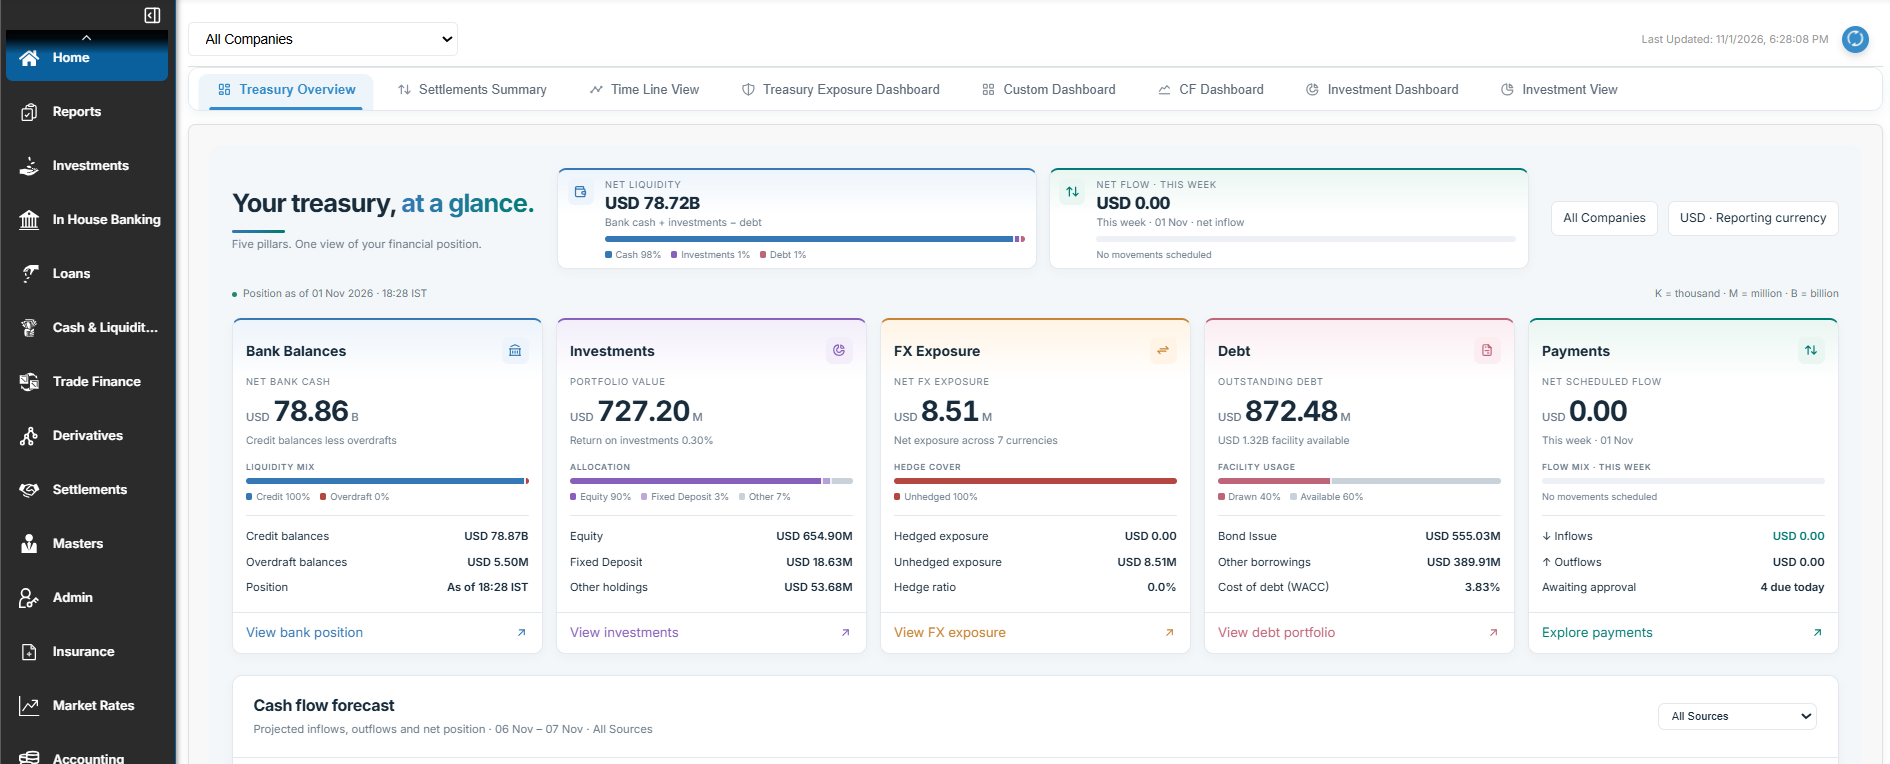
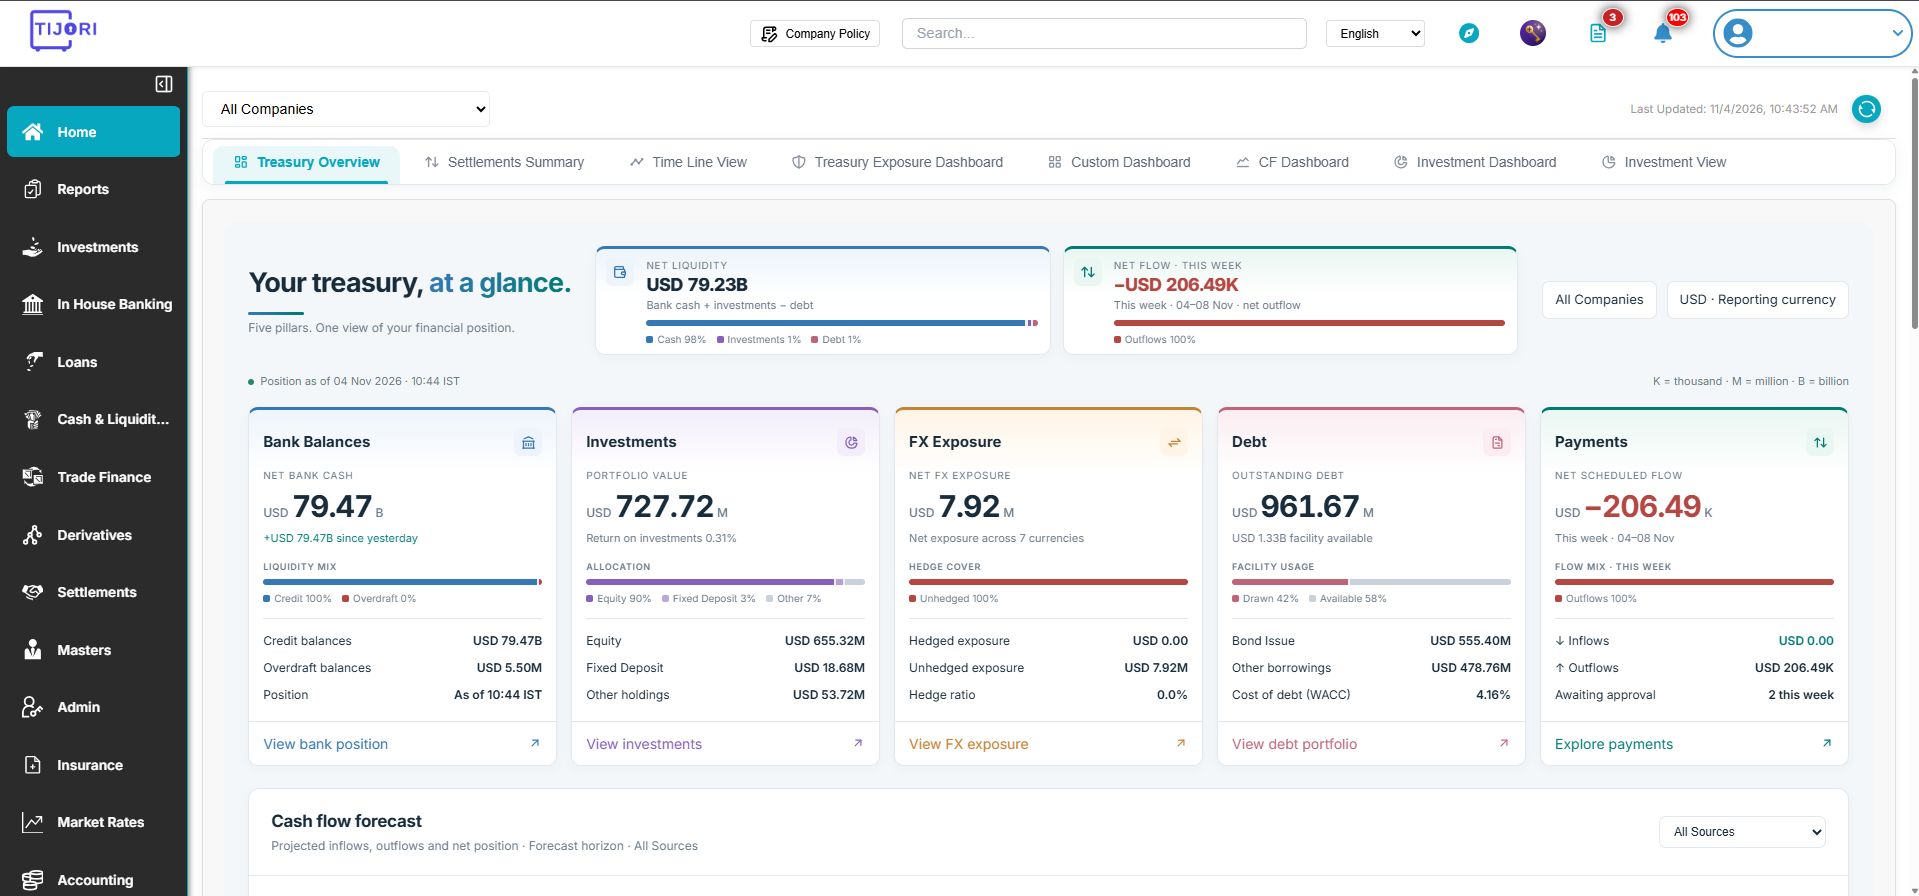
Update homepage screenshots and tighten hero spacing

diff --git a/src/components/home/PlatformOverview.tsx b/src/components/home/PlatformOverview.tsx
@@ -6,6 +6,12 @@ import Card from '../common/Card';
 import LocalizedLink from '../common/LocalizedLink';
 import { platformFeatures } from '../../data/features';
 
+const SLIDES = [
+  '/assets/screenshots/bank-balances-1.png',
+  '/assets/screenshots/bank-balances-2.png',
+  '/assets/screenshots/bank-balances-3.png',
+];
+
 export default function PlatformOverview() {
   const [visibleCards, setVisibleCards] = useState<Set<number>>(new Set());
   const [headerVisible, setHeaderVisible] = useState(false);
@@ -15,6 +21,16 @@ export default function PlatformOverview() {
   const { t: tCommon } = useTranslation('common');
   const { t: tPlatform } = useTranslation('platform');
   const isRTL = i18n.language === 'ar';
+  const [slide, setSlide] = useState(0);
+  const [paused, setPaused] = useState(false);
+  const goTo = (index: number) => setSlide((index + SLIDES.length) % SLIDES.length);
+
+  // Auto-advance the screenshot slider; pause while the visitor hovers it
+  useEffect(() => {
+    if (paused) return;
+    const timer = setTimeout(() => setSlide((s) => (s + 1) % SLIDES.length), 5000);
+    return () => clearTimeout(timer);
+  }, [slide, paused]);
 
   useEffect(() => {
     const observer = new IntersectionObserver(
@@ -147,17 +163,65 @@ export default function PlatformOverview() {
           ))}
         </div>
 
-        {/* Screenshot Preview */}
+        {/* Screenshot Preview — Bank Balances slider */}
         <div className="mt-16 text-center">
-          <div className="inline-block bg-gray-100 rounded-xl p-4 shadow-xl">
-            <img
-              src="/assets/screenshots/Bank Balances.png"
-              alt={t('platformOverview.screenshotCaption')}
-              className="rounded-lg w-full max-w-4xl"
-              loading="lazy"
-            />
+          <div
+            className="relative max-w-4xl mx-auto bg-gray-100 rounded-xl p-4 shadow-xl group/slider"
+            onMouseEnter={() => setPaused(true)}
+            onMouseLeave={() => setPaused(false)}
+          >
+            <div className="overflow-hidden rounded-lg" dir="ltr">
+              <div
+                className="flex transition-transform duration-700 ease-in-out"
+                style={{ transform: `translateX(-${slide * 100}%)` }}
+              >
+                {SLIDES.map((src, index) => (
+                  <img
+                    key={src}
+                    src={src}
+                    alt={`${t('platformOverview.screenshotCaption')} (${index + 1}/${SLIDES.length})`}
+                    className="w-full flex-shrink-0 block"
+                    loading="lazy"
+                  />
+                ))}
+              </div>
+            </div>
+
+            {/* Arrows */}
+            {[
+              { label: 'Previous', step: -1, side: 'left-6', path: 'M15 19l-7-7 7-7' },
+              { label: 'Next', step: 1, side: 'right-6', path: 'M9 5l7 7-7 7' },
+            ].map((arrow) => (
+              <button
+                key={arrow.label}
+                type="button"
+                aria-label={arrow.label}
+                onClick={() => goTo(slide + arrow.step)}
+                className={`absolute top-1/2 -translate-y-1/2 ${arrow.side} w-9 h-9 rounded-full bg-white/90 shadow-md text-gray-700 flex items-center justify-center opacity-0 group-hover/slider:opacity-100 focus:opacity-100 transition-opacity hover:bg-white`}
+              >
+                <svg className="w-5 h-5" fill="none" stroke="currentColor" viewBox="0 0 24 24">
+                  <path strokeLinecap="round" strokeLinejoin="round" strokeWidth={2} d={arrow.path} />
+                </svg>
+              </button>
+            ))}
           </div>
-          <p className="text-gray-500 text-sm mt-4">{t('platformOverview.screenshotCaption')}</p>
+
+          {/* Dots */}
+          <div className="flex justify-center gap-2 mt-4" dir="ltr">
+            {SLIDES.map((src, index) => (
+              <button
+                key={src}
+                type="button"
+                aria-label={`Slide ${index + 1}`}
+                aria-current={slide === index}
+                onClick={() => goTo(index)}
+                className={`h-2 rounded-full transition-all duration-300 ${
+                  slide === index ? 'w-6 bg-primary-600' : 'w-2 bg-gray-300 hover:bg-gray-400'
+                }`}
+              />
+            ))}
+          </div>
+          <p className="text-gray-500 text-sm mt-3">{t('platformOverview.screenshotCaption')}</p>
         </div>
       </Container>
     </Section>

diff --git a/src/components/home/Hero.tsx b/src/components/home/Hero.tsx
@@ -92,13 +92,13 @@ export default function Hero() {
         transition={{ duration: 6, repeat: Infinity, ease: 'easeInOut' }}
       />
 
-      <Container className="relative pt-28 md:pt-36 pb-0">
+      <Container className="relative pt-10 md:pt-12 pb-0">
         {/* Badge */}
         <motion.div
           initial={{ opacity: 0, y: 10 }}
           animate={{ opacity: 1, y: 0 }}
           transition={{ duration: 0.5 }}
-          className="text-center mb-8"
+          className="text-center mb-6"
         >
           <span className="inline-flex items-center px-4 py-1.5 bg-white/[0.05] border border-white/[0.07] rounded-full text-white/40 text-xs tracking-widest uppercase">
             {t('hero.badge')}
